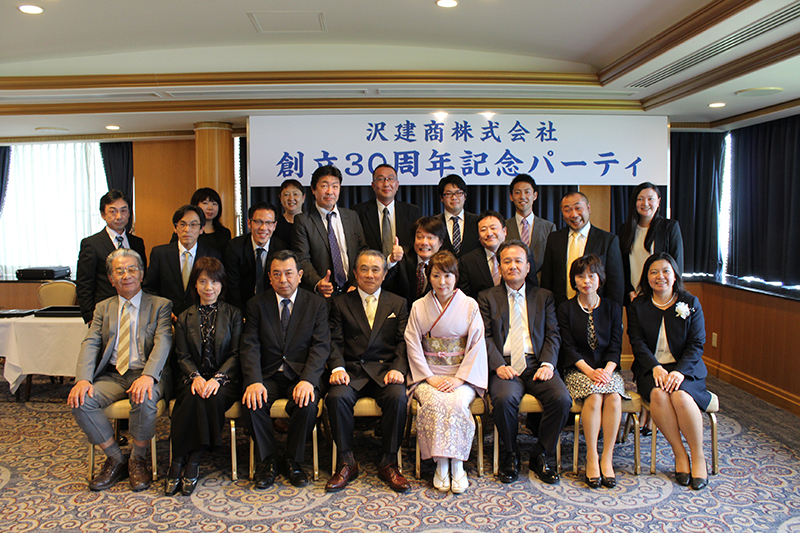
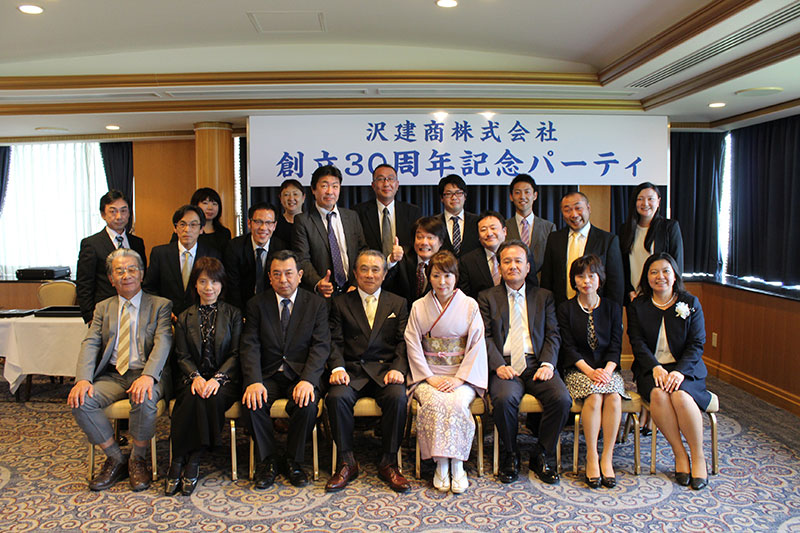
各ページの画像を圧縮しました。

Changed region(s): [[0.7188, 0.7205, 0.75, 0.7505]]

diff --git a/wp/wp-content/themes/sawaken/assets/css/style-addition.css b/wp/wp-content/themes/sawaken/assets/css/style-addition.css
@@ -67,7 +67,7 @@
 			rgba(0, 0, 0, 0.8) 0,
 			rgba(0, 0, 0, 0.2) 30%
 		),
-		url(../images/company_info/header_top.jpeg);
+		url(../images/company_info/header_top.jpg);
 }
 .banner-development {
 	background-repeat: no-repeat;
@@ -78,7 +78,7 @@
 			rgba(0, 0, 0, 0.8) 0,
 			rgba(0, 0, 0, 0.2) 30%
 		),
-		url(../images/development/background_development.jpeg);
+		url(../images/development/background_development.jpg);
 }
 .banner-chose_reason {
 	background-repeat: no-repeat;

diff --git a/wp/wp-content/themes/sawaken/front-page.php b/wp/wp-content/themes/sawaken/front-page.php
@@ -192,7 +192,7 @@ Template Name: トップページ
                                     <h3 class="top-product--productitem__tit top-product__tit_after">オフィス</h3>
                                 </div>
                                 <div class="top-product--productitem__image">
-                                    <img src="<?php echo get_template_directory_uri(); ?>/assets/images/top/image-03.png"
+                                    <img src="<?php echo get_template_directory_uri(); ?>/assets/images/top/image-03.jpg"
                                         class="" data-rjs="2" alt="オフィス">
                                 </div>
                             </a>
@@ -203,7 +203,7 @@ Template Name: トップページ
                                     <h3 class="top-product--productitem__tit top-product__tit_after">集合住宅</h3>
                                 </div>
                                 <div class="top-product--productitem__image">
-                                    <img src="<?php echo get_template_directory_uri(); ?>/assets/images/top/image-04.png"
+                                    <img src="<?php echo get_template_directory_uri(); ?>/assets/images/top/image-04.jpg"
                                         class="" data-rjs="2" alt="集合住宅">
                                 </div>
                             </a>
@@ -214,7 +214,7 @@ Template Name: トップページ
                                     <h3 class="top-product--productitem__tit top-product__tit_after">医療機関</h3>
                                 </div>
                                 <div class="top-product--productitem__image">
-                                    <img src="<?php echo get_template_directory_uri(); ?>/assets/images/top/image-05.png"
+                                    <img src="<?php echo get_template_directory_uri(); ?>/assets/images/top/image-05.jpg"
                                         class="" data-rjs="2" alt="医療機関">
                                 </div>
                             </a>
@@ -258,7 +258,7 @@ Template Name: トップページ
                                     <h3 class="top-product--productitem__tit top-product__tit_after">宿泊施設</h3>
                                 </div>
                                 <div class="top-product--productitem__image">
-                                    <img src="<?php echo get_template_directory_uri(); ?>/assets/images/top/image-08.png"
+                                    <img src="<?php echo get_template_directory_uri(); ?>/assets/images/top/image-08.jpg"
                                         class="" data-rjs="2" alt="宿泊施設">
                                 </div>
                             </a>
@@ -269,7 +269,7 @@ Template Name: トップページ
                                     <h3 class="top-product--productitem__tit top-product__tit_after">商業施設・テナント</h3>
                                 </div>
                                 <div class="top-product--productitem__image">
-                                    <img src="<?php echo get_template_directory_uri(); ?>/assets/images/top/image-07.png"
+                                    <img src="<?php echo get_template_directory_uri(); ?>/assets/images/top/image-07.jpg"
                                         class="" data-rjs="2" alt="商業施設">
                                 </div>
                             </a>
